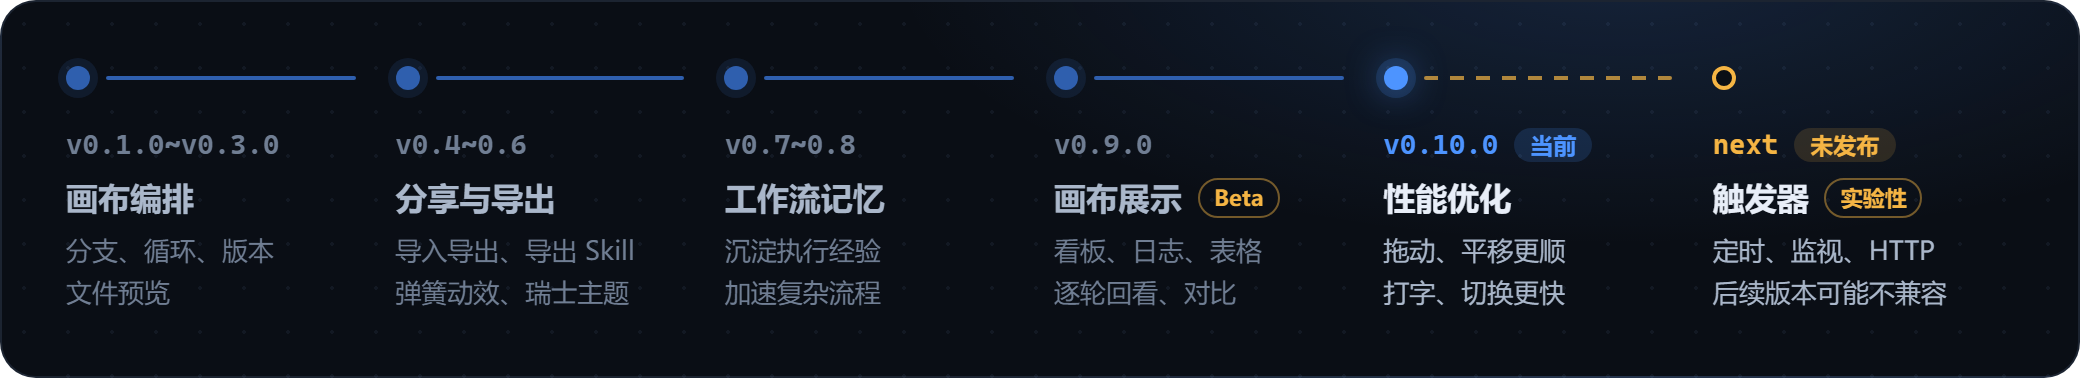
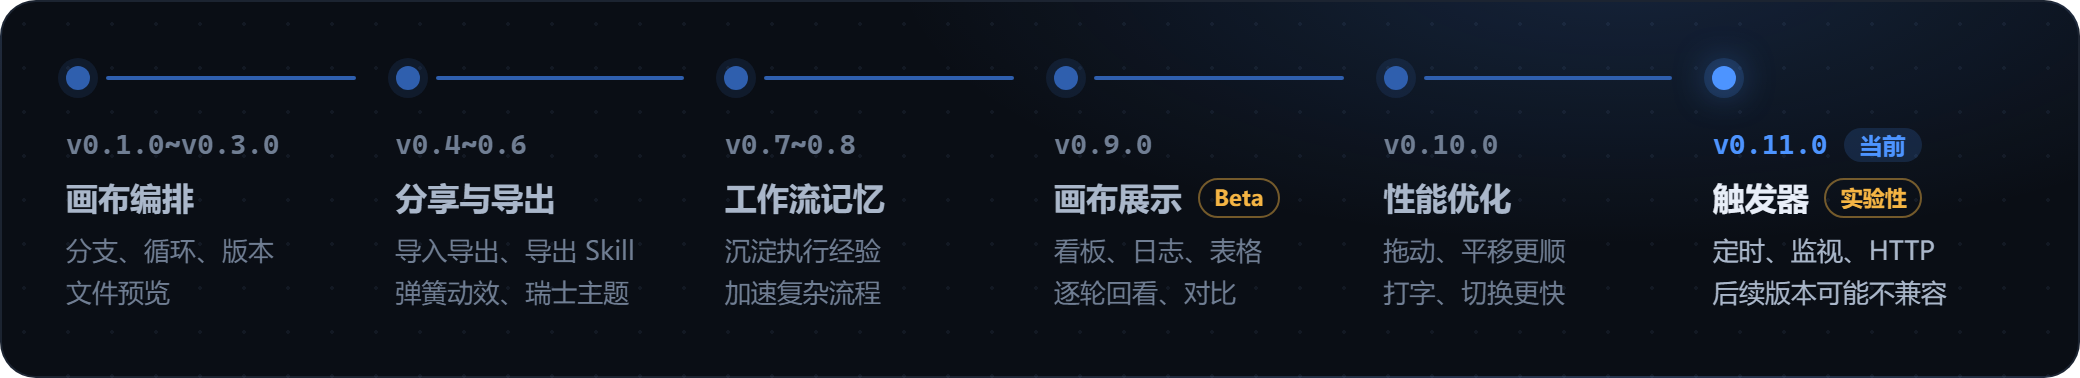
docs(changelog): 0.11.0
补齐导出导入、新会话配置、整理布局等条目，修正过时的命令确认和补发默认值；版本线、更新卡片内容写入 0.11.0。

diff --git a/CHANGELOG.md b/CHANGELOG.md
@@ -5,7 +5,7 @@
 格式基于 [Keep a Changelog](https://keepachangelog.com/zh-CN/1.1.0/)，
 版本号遵循 [Semantic Versioning](https://semver.org/lang/zh-CN/)。
 
-## [Unreleased]
+## [0.11.0] - 2026-11-22
 
 这一版新增触发器（实验性）：工作流可以定时执行、到点先跑一条命令看结果再执行、在常驻程序打出一行 `::trigger::` 时执行、收到 HTTP 请求时执行，或在另一个工作流跑完后接着执行，也可以在对话里让模型建好、试好。工作流中心各页左栏改成可分组的列表，工作流支持标签。
 
@@ -21,12 +21,11 @@
 - 「试运行」和「最近的输出」里会触发的行标着 `::trigger::`，监视的试运行写出这几秒里有几行会触发，一行都没有时提示启用后不会触发；一件事被换行断开时，提示并标出断开的几行。
 - 支持 HTTP 触发：每个触发器有一个地址和令牌，别的程序发 POST 请求就执行一次，请求体作为背景信息；设置里有 curl、PowerShell、JavaScript、Python 调用示例，启用后可以点「发一条测试请求」。
 - 支持接续触发：另一个工作流的一次执行成功、失败或不论结果结束后接着执行，那次执行的实例、结果和运行状态文件位置作为背景信息；选工作流时列出各工作流最近一次执行的结果。
-- 要在本机运行命令的触发器，启用前列出命令、工作区和 shell 请用户确认；其中任何一样改过之后停下，确认后再继续。
 - 支持触发过滤：按关键字筛选、相同内容一段时间内只触发一次、几秒内的触发合并成一次，都不花模型调用。
 - 支持「触发条件」和「触发说明」：触发条件让模型先判断这一次要不要执行，触发说明每次原样交给模型；工作流有执行前提问时，模型按背景信息作答，答不出必填的才来问。
 - 支持选择触发后发进新建的会话、上一次的会话或固定的会话。
 - 支持选择上次执行未结束时跳过、排队或同时运行：按上次执行的运行状态判断是否结束，排着的按收到的先后依次执行，上次执行一直没更新状态时可以视为已结束；选跳过或排队时工作流需要开启「记录运行状态」。
-- 新增触发保护：每小时触发上限默认 60 次，连续失败 3 次自动停用，DSH 未运行期间错过的定时触发启动后补发一次，三项都可以改。
+- 新增触发保护：每小时触发上限默认 60 次，连续失败 3 次自动停用，DSH 未运行期间错过的定时触发可选在启动后补发一次（默认关闭），三项都可以改。
 - 支持「立即触发一次」，可以附带这一次的背景信息。
 - 触发记录写明每次是已发出、跳过、失败、排队中还是模型判断不需要，点一条查看原因、触发说明和背景信息；属性面板列出最近 20 次。
 - 画布上的触发器按触发方式显示图标、一行摘要（时刻、检查进度、监视程序最近的事件、HTTP 地址、等哪个工作流）和状态。
@@ -39,6 +38,17 @@
 - 工作流中心各页左栏支持分组折叠，「视图选项」里可以选分组、排序、筛选和行高，默认使用紧凑行高。
 - 「运行实例」页右栏新增概览、画布、时间线、信息四个页签：概览画出每一步的用时，画布显示这次执行走到哪一步，时间线把状态变化和触发记录放在一起。
 - 工作流、记忆、触发器的名字可以在工作流中心右栏的标题上直接改。
+- 支持导出、导入触发器：触发卡片、开关状态和触发脚本随工作流带走，密钥和脚本数据可选带上，密钥是明文。
+- 导入触发器时按导出时的开关状态预选，每张卡片都能在确认前调整；本机缺少所需的工作区、固定会话、shell、服务商、模型、预设或权限，或 HTTP 地址已被占用的卡片不能开启，导出时开着的导入后先关着。
+- 支持保存、切换版本时带上触发卡片，切到开着触发卡片的版本时可选恢复当时的开关或全部关掉。
+- 工作流设置新增「新会话配置」：可为手动「执行」和触发器新建的会话选择 agent 预设、模型、思考强度和运行权限，触发卡片可单独覆盖，导出时可选带上；选的用不上时按 DSH 默认执行并给出警示，按工作流选模型要 DSH 0.2.2 或更新，DSH 0.2.1 不能按会话设权限。
+- 新建的触发卡片运行权限默认是完全权限，因为触发时没人在场回答授权请求，可改成跟随工作流或其他档。
+- 插件新建的会话标题写成「工作流名 · 来源 · 月-日 时:分」，来源是触发卡片的名字，手动执行写「手动」。
+- 触发卡片有没看过的失败时状态标亮红点，悬停列出失败，可点「知道了」或去工作流中心，和「触发」页时间线的红点共用同一份已读记录。
+- 选中触发卡片时上方出现工具条：「在工作流中心查看」和「立即触发一次」。
+- 触发发进会话的消息按用户消息处理，模型可以在触发的这一轮设定目标。
+- 同一步既读取又更新同一份资源时给出警告，提示删掉多余的读取连线。
+- 同一个会话再进工作流视图时接着看上次的工作流和实例；从画布打开工作流中心时定位到当前的工作流或实例。
 
 ### Changed
 
@@ -50,6 +60,9 @@
 - 优化画布顶栏的工作流搜索：默认按最近修改列出全部工作流，不分组；分组、排序和筛选可单独调整，不影响工作流中心。
 - 优化数字框和时刻框：可以直接打字、按上下键、滚动滚轮或按住 − + 调整，时刻框带常用时刻和时、分选择。
 - 优化工作流中心：大屏上更宽，页签带图标和颜色，「存储」「设置」改成右上角的图标按钮。
+- 改善「整理布局」：最长的流程路径拉成一条直线，多步共用的文档放到主线上方走总线，连线不再从画布另一头绕回来，触发卡片放在主线第一步左边。
+- 优化导出、导入清单：触发卡片的密钥和脚本数据挂在卡片下，导出步骤可点击切换，分类标题滚动时固定在顶部。
+- 优化工作流中心和弹窗的响应：打开、关闭弹窗和切换左栏选中更快，弹窗开着时背后的动画与刷新暂停，关闭后接着走。
 
 ### Fixed
 
@@ -64,6 +77,8 @@
 
 - 插件改为需要 Node 24.9 及以上：触发记录和最近的输出存在插件数据目录下的 SQLite 数据库里。
 - 0.10.0 及更早版本的插件不认识触发器，会把它显示成一个空步骤，保存后触发设置丢失；回退版本前先删掉触发器，没有触发器的工作流和已有实例不受影响。
+- 每个工作流文件和 `instances.json` 里的实例会补上固定的 `workflowId`，首次启动自动写入；0.10.0 及更早版本保存工作流时会丢掉它，之后再升级会重新分配，已有触发记录与工作流的对应随之断开，工作流内容不受影响。
+- `workflow_lite` 的写入动作统一按字段合并：修改时没给的字段不动，对象字段给 null 恢复缺省，文字给空串清除，数组整份替换；`write_trigger` 的 source、filter、launch 只需给要改的字段，`write_resource` 的 display 里 lines、table、folder 给 null 回到缺省。
 - `workflow_lite` 工具新增 `write_trigger`、`test_trigger`、`trigger_queue`、`decline` 四个 action，compile 新增 `fire` 参数；`read` 新增工作流目录 `dir` 和触发器列表，`list` 新增各触发器的状态与问题。
 - 插件设置新增 `triggerPort`、`triggerHost`、`triggerShell`、`triggerOutputLines`；「给模型的使用指南」新增一份 `workflow-trigger`。
 
